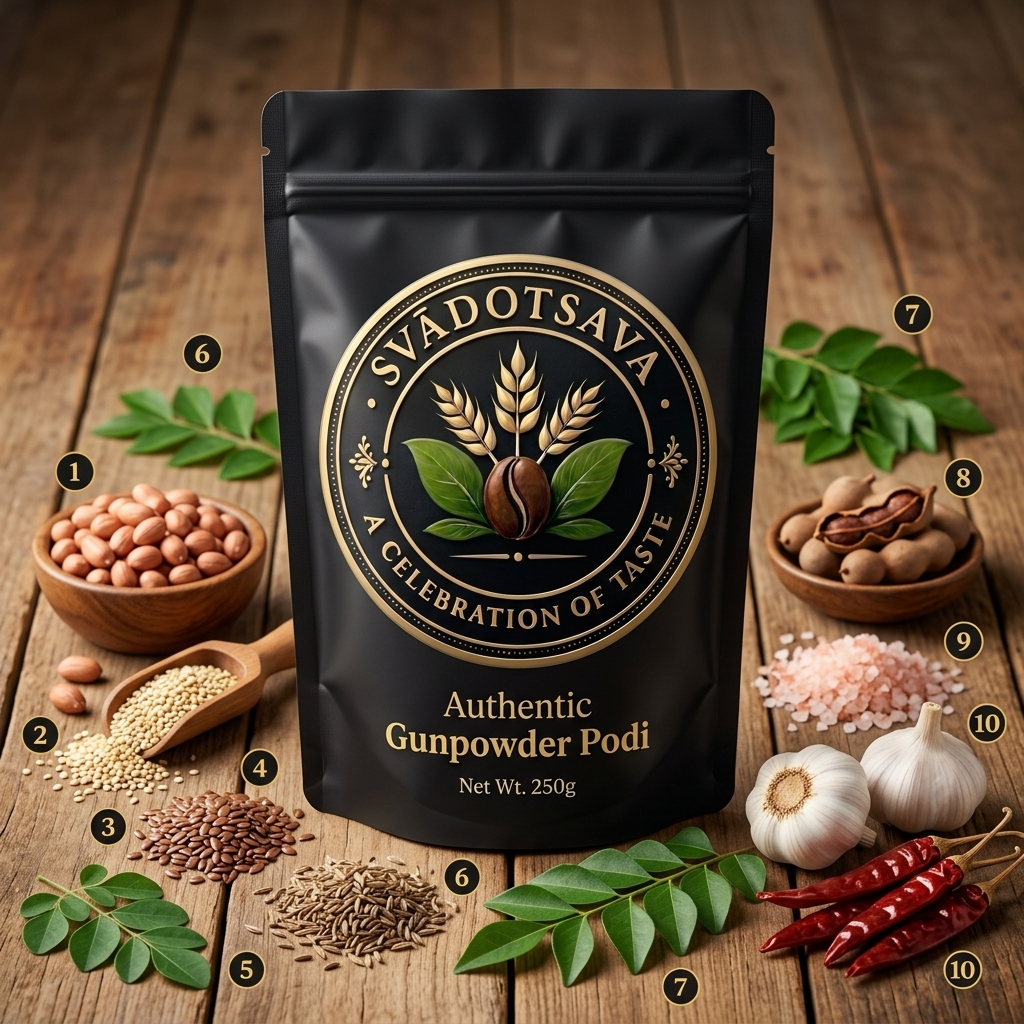
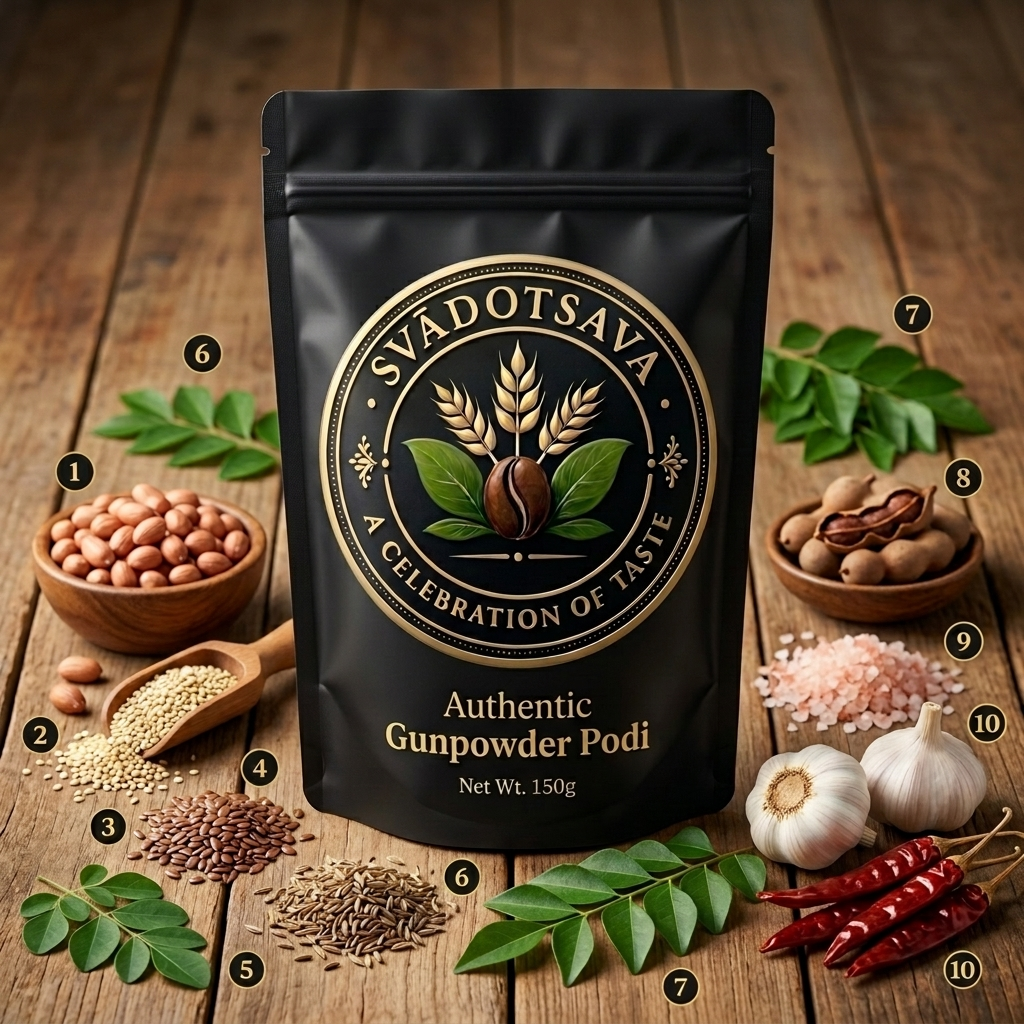
Improve brand visibility & update podi package to 150g
- Darken 'otsava' accent color in nav brand (#c8874a → #a06830) for better contrast on cream bg
- Darken tagline 'A Celebration of Taste' (#e1b46b → #9a6c30) to pass WCAG AA
- Update Svadotsava PODI package image from 250g to 150g

diff --git a/assets/css/styles.css b/assets/css/styles.css
@@ -140,12 +140,17 @@ footer {
   line-height: 1.1;
 }
 
+/* Darken accent span ("otsava") in nav brand for contrast on cream bg */
+.brand-name span[style*="--accent"] {
+  color: #a06830 !important;
+}
+
 .brand-tagline {
   margin-top: 2px;
   font-size: 0.65rem;
   letter-spacing: 0.15em;
   text-transform: uppercase;
-  color: #e1b46b;
+  color: #9a6c30;
   font-weight: 700;
 }
 